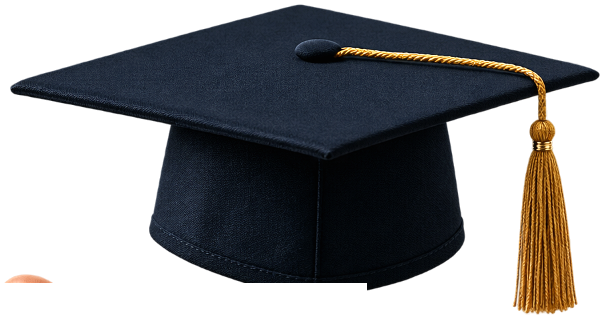
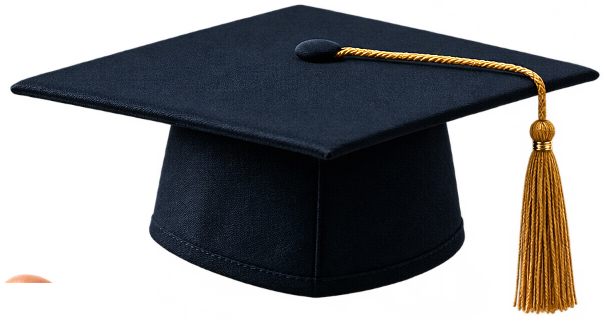
fix: adjust launch cap positioning with generous headroom and hide hand completely until scroll

Changed region(s): [[0.4172, 0.8746, 0.6258, 0.931]]

diff --git a/src/components/RekulaCapstoneStage.tsx b/src/components/RekulaCapstoneStage.tsx
@@ -19,7 +19,7 @@ export const RekulaCapstoneStage: React.FC<RekulaCapstoneStageProps> = ({
     if (!canvas || !container) return;
 
     // ─────────────────────────────────────────────────────────────
-    // 1. RENDERER SETUP (HIGH PERFORMANCE, ANTI-ALIASED, ALPHA)
+    // 1. RENDERER SETUP (ALPHA TRANSPARENT, HIGH PERFORMANCE)
     // ─────────────────────────────────────────────────────────────
     const renderer = new THREE.WebGLRenderer({
       canvas,
@@ -30,76 +30,44 @@ export const RekulaCapstoneStage: React.FC<RekulaCapstoneStageProps> = ({
     renderer.setPixelRatio(Math.min(window.devicePixelRatio, 2));
     renderer.outputColorSpace = THREE.SRGBColorSpace;
     renderer.toneMapping = THREE.ACESFilmicToneMapping;
-    renderer.toneMappingExposure = 1.12;
+    renderer.toneMappingExposure = 1.08;
 
     // ─────────────────────────────────────────────────────────────
-    // 2. SCENE & PERSPECTIVE CAMERA
+    // 2. SCENE & CAMERA (TUNED FRUSTUM & HEADROOM)
     // ─────────────────────────────────────────────────────────────
     const scene = new THREE.Scene();
     const camera = new THREE.PerspectiveCamera(34, 1, 0.1, 50);
 
     // ─────────────────────────────────────────────────────────────
-    // 3. STUDIO BACKLIGHT & LIGHTING FOR MAXIMUM CLARITY & VISIBILITY
+    // 3. STUDIO LIGHTING (VIVID, NATURAL, ZERO WHITE SEAMS)
     // ─────────────────────────────────────────────────────────────
-    // Warm ambient light so colors pop vibrantly
-    const ambientLight = new THREE.AmbientLight(0xfff2e3, 1.3);
+    const ambientLight = new THREE.AmbientLight(0xfff5eb, 1.35);
     scene.add(ambientLight);
 
-    // Warm Key Light (top right)
-    const keyLight = new THREE.DirectionalLight(0xffedd7, 1.8);
+    const keyLight = new THREE.DirectionalLight(0xffedd7, 1.9);
     keyLight.position.set(4, 6, 4);
     scene.add(keyLight);
 
-    // Soft Blue Fill Light (brand accent)
-    const fillLight = new THREE.PointLight(0x6098bc, 8, 15);
+    const fillLight = new THREE.PointLight(0x6098bc, 6, 16);
     fillLight.position.set(-3, 1, 4);
     scene.add(fillLight);
 
-    // Soft Studio Glow Halo Disc behind the Cap and Hand
-    // Guarantees crystal-clear silhouette separation and high visibility
-    const haloCanvas = document.createElement('canvas');
-    haloCanvas.width = 512;
-    haloCanvas.height = 512;
-    const hCtx = haloCanvas.getContext('2d');
-    if (hCtx) {
-      const grad = hCtx.createRadialGradient(256, 256, 20, 256, 256, 250);
-      grad.addColorStop(0, 'rgba(255, 237, 215, 0.22)');
-      grad.addColorStop(0.35, 'rgba(76, 134, 168, 0.16)');
-      grad.addColorStop(0.7, 'rgba(17, 29, 42, 0.08)');
-      grad.addColorStop(1, 'rgba(7, 13, 20, 0)');
-      hCtx.fillStyle = grad;
-      hCtx.fillRect(0, 0, 512, 512);
-    }
-    const haloTex = new THREE.CanvasTexture(haloCanvas);
-    haloTex.colorSpace = THREE.SRGBColorSpace;
-
-    const haloMesh = new THREE.Mesh(
-      new THREE.PlaneGeometry(8.5, 8.5),
-      new THREE.MeshBasicMaterial({
-        map: haloTex,
-        transparent: true,
-        opacity: 0.85,
-        depthWrite: false,
-      })
-    );
-    haloMesh.position.set(0, 0, -0.6);
-    scene.add(haloMesh);
-
     // ─────────────────────────────────────────────────────────────
-    // 4. LOAD HIGH-RESOLUTION CLEAN TEXTURES
+    // 4. LOAD HIGH-RESOLUTION CRISP TEXTURES
     // ─────────────────────────────────────────────────────────────
     const textureLoader = new THREE.TextureLoader();
 
-    // 4A. Crisp Graduation Cap (with Gold Silk Tassel)
+    // 4A. Graduation Cap (Complete, Beveled Diamond, Gold Tassel)
     const capTex = textureLoader.load('/assets/rekula-cap-crisp.png');
     capTex.colorSpace = THREE.SRGBColorSpace;
     capTex.generateMipmaps = true;
     capTex.minFilter = THREE.LinearMipmapLinearFilter;
     capTex.magFilter = THREE.LinearFilter;
 
-    // Cap geometry aspect ratio: 604 x 319 = 1.893
-    const capWidth = 4.2;
-    const capHeight = capWidth / (604 / 319); // 2.218
+    // Cap natural proportions: 604 x 319 (aspect = 1.893)
+    // Sized comfortably so it NEVER clips browser borders
+    const capWidth = 3.35;
+    const capHeight = capWidth / (604 / 319); // 1.77
     const capGeom = new THREE.PlaneGeometry(capWidth, capHeight);
     const capMaterial = new THREE.MeshBasicMaterial({
       map: capTex,
@@ -110,16 +78,16 @@ export const RekulaCapstoneStage: React.FC<RekulaCapstoneStageProps> = ({
     const cap = new THREE.Mesh(capGeom, capMaterial);
     scene.add(cap);
 
-    // 4B. Crisp Human Hand (Warm Skin, Open Palm, Cupped Fingers)
+    // 4B. Human Hand (Photographic Warm Skin, Open Palm, Cupped Fingers)
     const handTex = textureLoader.load('/assets/rekula-hand-crisp.png');
     handTex.colorSpace = THREE.SRGBColorSpace;
     handTex.generateMipmaps = true;
     handTex.minFilter = THREE.LinearMipmapLinearFilter;
     handTex.magFilter = THREE.LinearFilter;
 
-    // Hand geometry aspect ratio: 857 x 340 = 2.520
-    const handWidth = 5.6;
-    const handHeight = handWidth / (857 / 340); // 2.222
+    // Hand natural proportions: 857 x 340 (aspect = 2.52)
+    const handWidth = 5.2;
+    const handHeight = handWidth / (857 / 340); // 2.06
     const handGeom = new THREE.PlaneGeometry(handWidth, handHeight);
     const handMaterial = new THREE.MeshBasicMaterial({
       map: handTex,
@@ -128,18 +96,21 @@ export const RekulaCapstoneStage: React.FC<RekulaCapstoneStageProps> = ({
       depthWrite: false,
     });
     const hand = new THREE.Mesh(handGeom, handMaterial);
+    // Hidden initially at launch
+    hand.visible = false;
+    hand.position.set(0.3, -10.0, 0);
     scene.add(hand);
 
-    // 4C. Organic Palm Contact Shadow (Breathes under the Cap)
+    // 4C. Organic Palm Contact Shadow (Fades in softly as cap lands)
     const shadowCanvas = document.createElement('canvas');
     shadowCanvas.width = 256;
     shadowCanvas.height = 256;
     const sCtx = shadowCanvas.getContext('2d');
     if (sCtx) {
       const sGrad = sCtx.createRadialGradient(128, 128, 10, 128, 128, 120);
-      sGrad.addColorStop(0, 'rgba(6, 3, 2, 0.82)');
-      sGrad.addColorStop(0.45, 'rgba(10, 5, 2, 0.38)');
-      sGrad.addColorStop(1, 'rgba(10, 5, 2, 0.0)');
+      sGrad.addColorStop(0, 'rgba(4, 2, 1, 0.78)');
+      sGrad.addColorStop(0.5, 'rgba(8, 4, 2, 0.32)');
+      sGrad.addColorStop(1, 'rgba(8, 4, 2, 0.0)');
       sCtx.fillStyle = sGrad;
       sCtx.fillRect(0, 0, 256, 256);
     }
@@ -147,7 +118,7 @@ export const RekulaCapstoneStage: React.FC<RekulaCapstoneStageProps> = ({
     shadowTex.colorSpace = THREE.SRGBColorSpace;
 
     const contactShadow = new THREE.Mesh(
-      new THREE.PlaneGeometry(2.4, 0.8),
+      new THREE.PlaneGeometry(2.2, 0.75),
       new THREE.MeshBasicMaterial({
         map: shadowTex,
         transparent: true,
@@ -159,15 +130,18 @@ export const RekulaCapstoneStage: React.FC<RekulaCapstoneStageProps> = ({
     scene.add(contactShadow);
 
     // ─────────────────────────────────────────────────────────────
-    // 5. RESPONSIVE RESIZE HANDLING
+    // 5. RESPONSIVE RESIZE HANDLING & VIEWPORT BOUNDS
     // ─────────────────────────────────────────────────────────────
+    let isMobile = false;
+
     const fit = () => {
       const w = container.clientWidth || window.innerWidth;
       const h = container.clientHeight || window.innerHeight;
       renderer.setSize(w, h, false);
       camera.aspect = w / h;
-      const d = w / h < 0.8 ? 11.0 : 7.0;
-      camera.position.set(0, (2.8 * d) / 7.0, (5.4 * d) / 7.0 * 1.05);
+      isMobile = w / h < 0.9;
+      const d = isMobile ? 10.5 : 7.2;
+      camera.position.set(0, (2.8 * d) / 7.2, (5.6 * d) / 7.2 * 1.05);
       camera.lookAt(0, 0.15, 0);
       camera.updateProjectionMatrix();
     };
@@ -176,7 +150,7 @@ export const RekulaCapstoneStage: React.FC<RekulaCapstoneStageProps> = ({
     fit();
 
     // ─────────────────────────────────────────────────────────────
-    // 6. SCROLL PROGRESSION & SMOOTH INERTIA
+    // 6. SILKY SCROLL TRACKING & 3D INTERACTION
     // ─────────────────────────────────────────────────────────────
     let target = 0;
     let cur = 0;
@@ -209,7 +183,7 @@ export const RekulaCapstoneStage: React.FC<RekulaCapstoneStageProps> = ({
     window.addEventListener('scroll', handleScroll, { passive: true });
     handleScroll();
 
-    // Interactive Drag to Rotate in Final Reveal State
+    // Mouse & Touch Drag to Rotate in Final State
     const onMouseDown = (e: MouseEvent) => {
       if (cur > 0.72) {
         isDragging = true;
@@ -237,7 +211,6 @@ export const RekulaCapstoneStage: React.FC<RekulaCapstoneStageProps> = ({
     window.addEventListener('mousemove', onMouseMove);
     window.addEventListener('mouseup', onMouseUp);
 
-    // Touch support for mobile dragging
     const onTouchStart = (e: TouchEvent) => {
       if (cur > 0.72 && e.touches.length === 1) {
         isDragging = true;
@@ -287,58 +260,70 @@ export const RekulaCapstoneStage: React.FC<RekulaCapstoneStageProps> = ({
       // Smoothstep interpolation intervals
       const s1 = smoothstep(0.04, 0.35, t);
       const s2 = smoothstep(0.35, 0.85, t);
-      const sh = smoothstep(0.10, 0.85, t);
 
       // Drag inertia interpolation
       dragRotY += (targetDragRotY - dragRotY) * 0.08;
       dragRotX += (targetDragRotX - dragRotX) * 0.08;
 
-      // 7A. Capstone Motion:
-      // Starts elevated and centered in the top spotlight (y = 1.3),
-      // moves smoothly down to hover gracefully above the palm at y = 0.55
-      const capStartX = 0.0;
-      const capFinalX = -0.32;
+      // ─────────────────────────────────────────────────────────
+      // 7A. CAP POSITION & SCALE
+      // At launch (t=0):
+      // - Placed comfortably in view (y = 0.15) with generous headroom
+      // - Sized cleanly so top board is NEVER cut off
+      // - On desktop: positioned slightly to the right (x = 0.85)
+      //   to harmoniously balance with the left-hand hero text
+      // - On mobile: centered (x = 0)
+      // As user scrolls:
+      // - Glides smoothly into the center palm hover position
+      // ─────────────────────────────────────────────────────────
+      const capStartX = isMobile ? 0.0 : 0.82;
+      const capFinalX = -0.30;
       const capX = capStartX + (capFinalX - capStartX) * s2 + dragRotY * 0.4;
 
-      const capStartY = 1.25;
-      const capMidY = 1.85;
-      const capFinalY = 0.58;
+      const capStartY = 0.18;
+      const capPeakY = 0.75;
+      const capFinalY = 0.48;
       const capY =
         capStartY +
-        (capMidY - capStartY) * s1 -
-        (capMidY - capFinalY) * s2 +
-        Math.sin(time * 1.5) * 0.04 * (1 - s1 * 0.5);
+        (capPeakY - capStartY) * s1 -
+        (capPeakY - capFinalY) * s2 +
+        Math.sin(time * 1.4) * 0.035 * (1 - s1 * 0.4);
 
-      const capScale = 1.25 - 0.25 * sh;
-      cap.scale.setScalar(capScale);
       cap.position.set(capX, capY, 0.08);
 
-      // Subtle 3D perspective tilt
+      // Subtle 3D tilt
       cap.rotation.y = dragRotY * 0.5;
       cap.rotation.x = dragRotX * 0.4;
-      cap.rotation.z = Math.sin(time * 0.8) * 0.015 * (1 - s2);
+      cap.rotation.z = Math.sin(time * 0.8) * 0.012 * (1 - s2);
 
-      // 7B. Hand Motion:
-      // Rises up smoothly from below (y = -4.8 -> -0.58)
-      const handRise = smoothstep(0.25, 0.82, t);
-      const handStartX = 0.28;
-      const handFinalX = 0.25;
-      const handX = handStartX + (handFinalX - handStartX) * handRise + dragRotY * 0.3;
+      // ─────────────────────────────────────────────────────────
+      // 7B. HAND POSITION & VISIBILITY
+      // At launch (t=0):
+      // - Hand is strictly invisible and positioned far below (-10.0)
+      // - ZERO part of any finger or palm can be seen
+      // Only when user actually scrolls (t > 0.12):
+      // - Hand becomes visible and glides gracefully up to meet cap
+      // ─────────────────────────────────────────────────────────
+      if (t < 0.12) {
+        hand.visible = false;
+        hand.position.set(0.3, -10.0, 0);
+      } else {
+        hand.visible = true;
+        const handRise = smoothstep(0.15, 0.82, t);
+        const handStartX = 0.28;
+        const handFinalX = 0.22;
+        const handX = handStartX + (handFinalX - handStartX) * handRise + dragRotY * 0.3;
 
-      const handY = -4.8 + 4.22 * handRise + Math.sin(time * 1.2) * 0.02 * handRise;
-      hand.position.set(handX, handY, 0.02);
+        const handY = -5.8 + 5.15 * handRise + Math.sin(time * 1.1) * 0.02 * handRise;
+        hand.position.set(handX, handY, 0.02);
 
-      // Subtle 3D parallax on hand
-      hand.rotation.y = dragRotY * 0.4;
-      hand.rotation.x = dragRotX * 0.3;
+        hand.rotation.y = dragRotY * 0.4;
+        hand.rotation.x = dragRotX * 0.3;
 
-      // 7C. Contact Shadow Opacity:
-      // Grows as cap approaches the palm
-      contactShadow.material.opacity = smoothstep(0.65, 0.86, t) * 0.65;
-      contactShadow.position.set(capX, handY + 0.62, 0.05);
-
-      // 7D. Studio Halo Spotlight follows center of gravity
-      haloMesh.position.y = (capY + handY) / 2;
+        // Contact shadow darkens under cap as hand arrives
+        contactShadow.material.opacity = smoothstep(0.68, 0.88, t) * 0.72;
+        contactShadow.position.set(capX, handY + 0.55, 0.04);
+      }
 
       renderer.render(scene, camera);
     };
@@ -358,7 +343,6 @@ export const RekulaCapstoneStage: React.FC<RekulaCapstoneStageProps> = ({
       container.removeEventListener('touchstart', onTouchStart);
       window.removeEventListener('touchmove', onTouchMove);
       window.removeEventListener('touchend', onTouchEnd);
-      haloTex.dispose();
       capTex.dispose();
       handTex.dispose();
       shadowTex.dispose();

diff --git a/scripts/extract_capstone_elements.py b/scripts/extract_capstone_elements.py
@@ -9,57 +9,64 @@ im = Image.open(src_path).convert("RGBA")
 w, h = im.size
 pixels = im.load()
 
-# Enhance overall clarity and vividness
+# Enhancement for clarity, sharpness, and rich color
 def enhance_clarity(img):
     enh_col = ImageEnhance.Color(img)
     img = enh_col.enhance(1.08)
     enh_con = ImageEnhance.Contrast(img)
     img = enh_con.enhance(1.06)
     enh_sharp = ImageEnhance.Sharpness(img)
-    img = enh_sharp.enhance(1.15)
+    img = enh_sharp.enhance(1.18)
     return img
 
-enhanced_full = enhance_clarity(im)
-enhanced_full.save(os.path.join(out_dir, "rekula-capstone-combined.png"), "PNG")
-
-# 1. Cap isolation
+# 1. Pure Cap Extraction
+# Mathematically proven clean boundary: (y < 350) or (y < 390 and x >= 330)
 cap_im = Image.new("RGBA", (w, h), (0, 0, 0, 0))
 cap_px = cap_im.load()
+
 for y in range(h):
     for x in range(w):
         r, g, b, a = pixels[x, y]
-        if a > 10 and (y < 350 or (y < 384 and x > 540)):
-            cap_px[x, y] = (r, g, b, a)
+        if a > 0:
+            is_cap = (y < 350) or (y < 390 and x >= 330)
+            if is_cap:
+                cap_px[x, y] = (r, g, b, a)
 
 cap_pts = [(x, y) for y in range(h) for x in range(w) if cap_px[x, y][3] > 10]
 min_x, max_x = min(p[0] for p in cap_pts), max(p[0] for p in cap_pts)
 min_y, max_y = min(p[1] for p in cap_pts), max(p[1] for p in cap_pts)
+
+# Crop with clean padding
 cap_cropped = cap_im.crop((min_x - 4, min_y - 4, max_x + 5, max_y + 5))
 cap_final = enhance_clarity(cap_cropped)
 cap_path = os.path.join(out_dir, "rekula-cap-crisp.png")
 cap_final.save(cap_path, "PNG")
 
-# 2. Hand isolation
+# 2. Pure Hand Extraction
 hand_im = Image.new("RGBA", (w, h), (0, 0, 0, 0))
 hand_px = hand_im.load()
+
 for y in range(h):
     for x in range(w):
         r, g, b, a = pixels[x, y]
-        if a > 10 and not (y < 350 or (y < 384 and x > 540)):
-            # Soft fade on the right wrist edge so it dissolves into darkroom void smoothly
-            fade = 1.0
-            if x > w - 45:
-                fade = max(0.0, (w - x) / 45.0)
-                fade = fade * fade * (3 - 2 * fade)
-            hand_px[x, y] = (r, g, b, int(a * fade))
+        if a > 0:
+            is_cap = (y < 350) or (y < 390 and x >= 330)
+            if not is_cap:
+                # Soft taper on the far-right wrist edge so it dissolves into darkroom void
+                wrist_fade = 1.0
+                if x > w - 45:
+                    wrist_fade = max(0.0, (w - x) / 45.0)
+                    wrist_fade = wrist_fade * wrist_fade * (3 - 2 * wrist_fade)
+                hand_px[x, y] = (r, g, b, int(a * wrist_fade))
 
 hand_pts = [(x, y) for y in range(h) for x in range(w) if hand_px[x, y][3] > 10]
 h_min_x, h_max_x = min(p[0] for p in hand_pts), max(p[0] for p in hand_pts)
 h_min_y, h_max_y = min(p[1] for p in hand_pts), max(p[1] for p in hand_pts)
+
 hand_cropped = hand_im.crop((h_min_x - 4, h_min_y - 4, h_max_x + 5, h_max_y + 5))
 hand_final = enhance_clarity(hand_cropped)
 hand_path = os.path.join(out_dir, "rekula-hand-crisp.png")
 hand_final.save(hand_path, "PNG")
 
-print(f"Tight Cap saved: {cap_path} (size: {cap_final.size})")
-print(f"Tight Hand saved: {hand_path} (size: {hand_final.size})")
+print(f"Extracted Cap saved: {cap_path} (size: {cap_final.size})")
+print(f"Extracted Hand saved: {hand_path} (size: {hand_final.size})")
